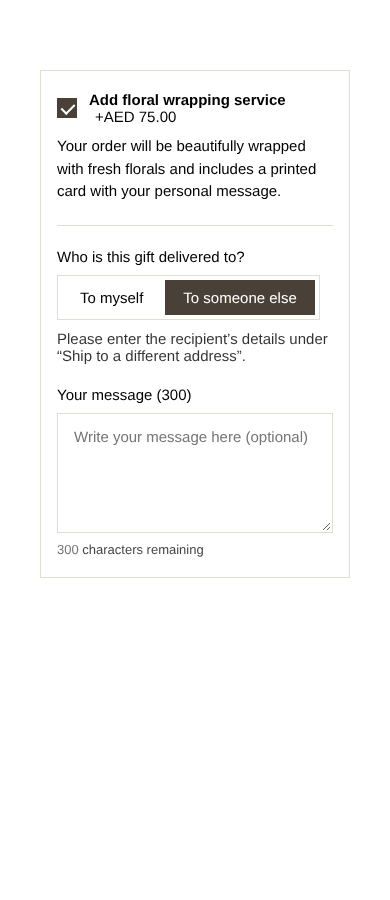
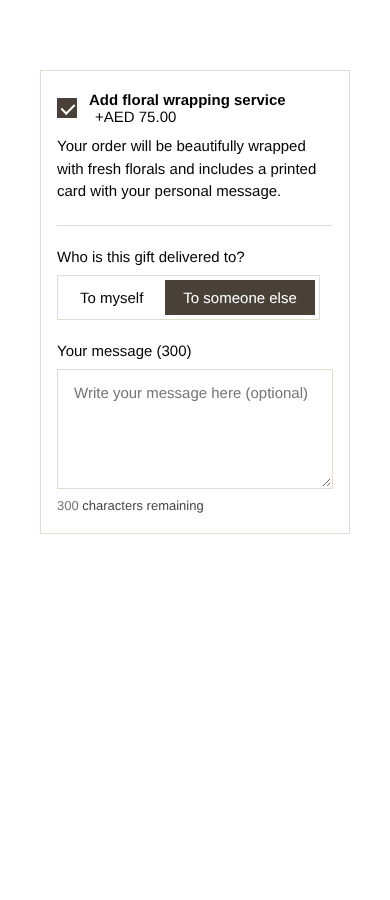
Gift option: remove 'ship to a different address' hint text
Claude-Session: https://claude.ai/code/session_011C48dKphzw49KqSA6i4iDS

Changed region(s): [[0.1538, 0.3733, 0.8308, 0.4978], [0.1538, 0.56, 0.5231, 0.6222], [0.8308, 0.56, 0.8615, 0.5911]]

diff --git a/arosa-gift-wrap/arosa-gift-wrap.php b/arosa-gift-wrap/arosa-gift-wrap.php
@@ -125,9 +125,6 @@ final class Arosa_Gift_Wrap {
 						<span><?php esc_html_e( 'To someone else', 'arosa-gift-wrap' ); ?></span>
 					</label>
 				</div>
-				<p class="arosa-gift__hint" data-for="someone_else" <?php echo 'someone_else' === $s['recipient'] ? '' : 'hidden'; ?>>
-					<?php esc_html_e( 'Please enter the recipient’s details under “Ship to a different address”.', 'arosa-gift-wrap' ); ?>
-				</p>
 
 				<label class="arosa-gift__label" for="arosa_gift_message">
 					<?php
@@ -284,7 +281,7 @@ final class Arosa_Gift_Wrap {
 .arosa-gift__price{margin-inline-start:6px}
 .arosa-gift__desc{margin:10px 0 0!important;padding-inline-start:32px;line-height:1.5}
 .arosa-gift__panel{margin-top:22px;padding-top:22px;border-top:1px solid var(--ag-line)}
-.arosa-gift__panel[hidden],.arosa-gift__hint[hidden]{display:none!important}
+.arosa-gift__panel[hidden]{display:none!important}
 .arosa-gift__label{display:block;margin:0 0 10px!important}
 .arosa-gift__toggle{display:inline-flex;max-width:100%;gap:4px;padding:4px;background:#fff;border:1px solid var(--ag-line);border-radius:0;margin-bottom:22px}
 .arosa-gift__toggle label{flex:0 0 auto;margin:0!important;cursor:pointer;position:relative}
@@ -293,7 +290,6 @@ final class Arosa_Gift_Wrap {
 .arosa-gift__toggle label:hover span{background:var(--ag-soft)}
 .woocommerce-checkout .arosa-gift .arosa-gift__toggle input:checked+span{background:var(--ag-brown)!important;color:#fff!important}
 .arosa-gift__toggle input:focus-visible+span{outline:2px solid var(--ag-brown);outline-offset:1px}
-.arosa-gift__hint{margin:-12px 0 22px!important;opacity:.8}
 .woocommerce form.woocommerce-checkout .arosa-gift textarea{width:100%;min-height:120px;padding:14px 16px;border:1px solid var(--ag-line);resize:vertical;background:#fff}
 .woocommerce-checkout .arosa-gift .arosa-gift__count,.woocommerce-checkout .arosa-gift .arosa-gift__count *{font-size:13px!important;opacity:.75}
 .arosa-gift__count{margin:6px 0 0!important}
@@ -318,7 +314,6 @@ jQuery(function($){
 
   $wrap.on('change', 'input[name="arosa_gift_recipient"]', function(){
     var other = this.value === 'someone_else';
-    $wrap.find('.arosa-gift__hint').prop('hidden', !other);
     if ($ship.length && $ship.prop('checked') !== other) {
       $ship.prop('checked', other).trigger('change');
     }
